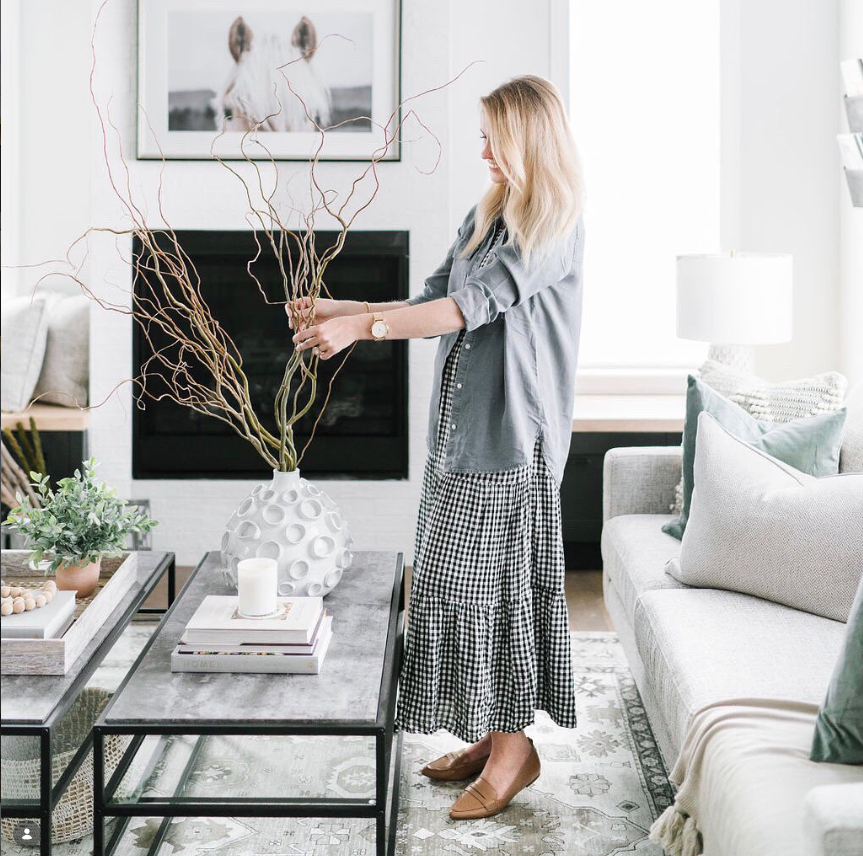
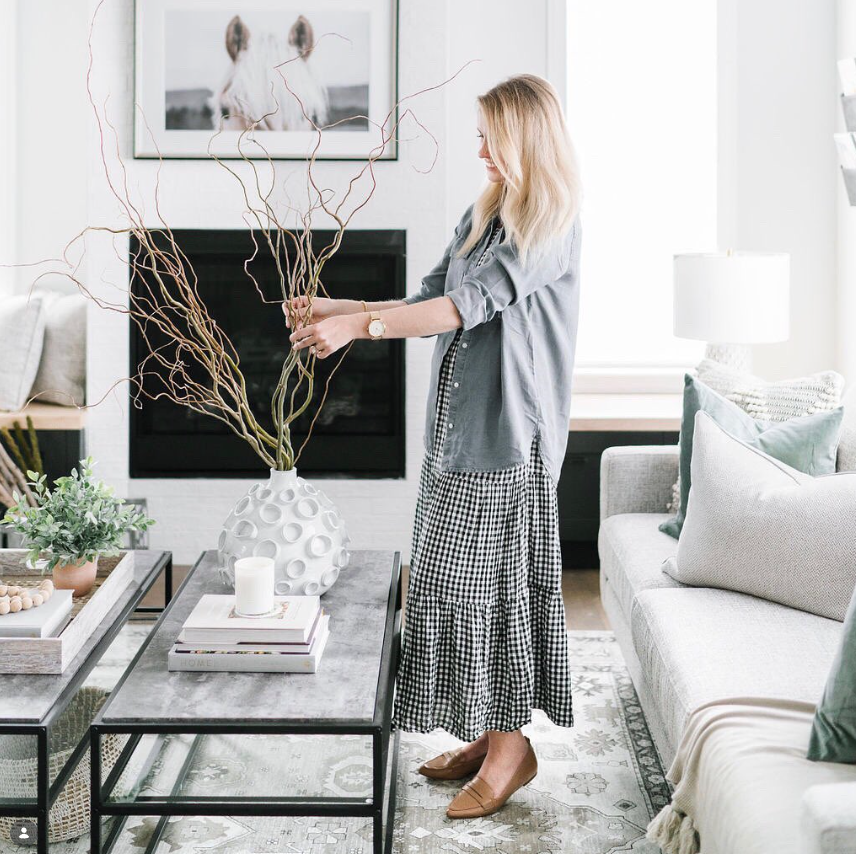
Style the about page - WIP

diff --git a/about.html b/about.html
@@ -10,6 +10,7 @@
     <link href="https://fonts.googleapis.com/css2?family=Cormorant+Garamond:wght@400;600;700&family=Montserrat:wght@300;400;500;600&display=swap" rel="stylesheet">
 </head>
 <body>
+    <!-- HEADER-->
     <header>
         <nav>
             <div class="logo">Gioia Design</div>
@@ -21,11 +22,20 @@
         </nav>
     </header>
 
+    <!-- HERO-->
     <section class="page-hero">
         <h1>Meet Sarah</h1>
-        <img src="images/about/profile1.png" alt="Sarah Beadle, Principal Designer at Gioia Interiors">
+        <p>The designer behind Gioia, bringing thoughtful design to Western Canada</p>
     </section>
 
+    <!-- IMAGES-->
+    <section class="about-images">
+        <img src="images/about/profile1.png" alt="Sarah Beadle, Principal Designer at Gioia Interiors">
+        <img src="images/about/profile3.png" alt="Sarah Beadle working on design plans">
+        <img src="images/about/profile2.png" alt="Sarah Beadle styling a space">
+    </section>
+
+    <!-- BIO-->
     <section class="bio">
         <h2>About the Designer</h2>
         <p>Sarah Beadle is the principal designer and founder of Gioia Interiors. With design education from Mount Royal University and Bow Valley College, Sarah has spent the past six years in the industry working with clients across Western Canada.</p>
@@ -44,10 +54,6 @@
     <section class="process">
         <h2>Three Values for Gaining Client Trust</h2>
         <div class="process-container">
-            <div class="process-images">
-                <img src="images/about/profile3.png" alt="Sarah Beadle working on design plans">
-                <img src="images/about/profile2.png" alt="Sarah Beadle styling a space">
-            </div>
             <!-- Process Steps-->
             <div class="card-grid">
                 <!-- Collaboration-->

diff --git a/styles.css b/styles.css
@@ -96,7 +96,6 @@ section {
     margin: 0 auto;
 }
 
-/* PAGE HERO - All pages get cream background box */
 /* PAGE HERO - Standardized for all pages */
 .page-hero {
     padding: 3rem 5%;
@@ -430,13 +429,69 @@ footer {
     color: var(--warm-white);
 }
 
-/* About Page */
-.about-image {
+/* BIO SECTION */
+.bio {
+    max-width: var(--max-width);
+    margin: 3rem auto;
+    padding: 0 5%;
+}
+
+.bio-image {
     width: 100%;
     max-width: 500px;
     height: 500px;
-    background-color: var(--soft-cream);
+    object-fit: cover;
+    margin: 0 auto 2rem;
+    border-radius: 4px;
+    display: block;
+}
+
+/* PROCESS SECTION */
+.process {
+    max-width: var(--max-width);
+    margin: 3rem auto;
+    padding: 0 5%;
+}
+
+/* ABOUT IMAGES - 3 image grid */
+.about-images {
     margin: 2rem auto;
+    padding: 0 5%;
+    display: grid;
+    grid-template-columns: 2fr 1fr;
+    grid-template-rows: repeat(2, 1fr);
+    gap: 2rem;
+}
+
+.about-images img:nth-child(1) {
+    grid-row: 1 / 3;
+    height: 100%;
+}
+
+.about-images img:nth-child(2),
+.about-images img:nth-child(3) {
+    height: 100%;
+}
+
+.about-images img {
+    width: 100%;
+    object-fit: cover;
+    object-position: top;
+    border-radius: 4px;
+}
+
+/* BIO SECTION */
+.bio {
+    max-width: var(--max-width);
+    margin: 3rem auto;
+    padding: 0 5%;
+}
+
+/* PROCESS SECTION */
+.process {
+    max-width: var(--max-width);
+    margin: 3rem auto;
+    padding: 0 5%;
 }
 
 /* 
